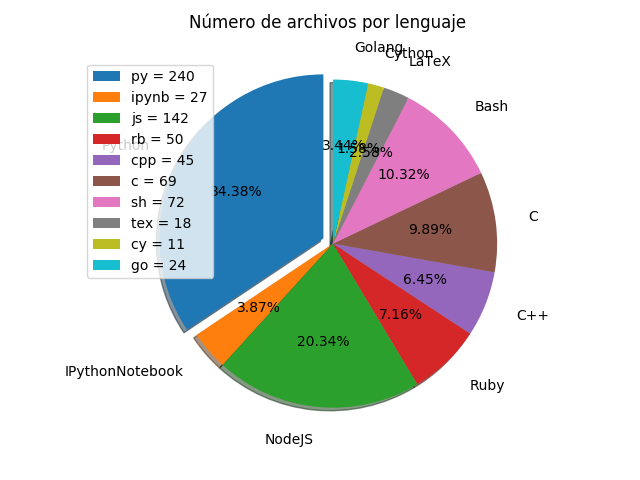
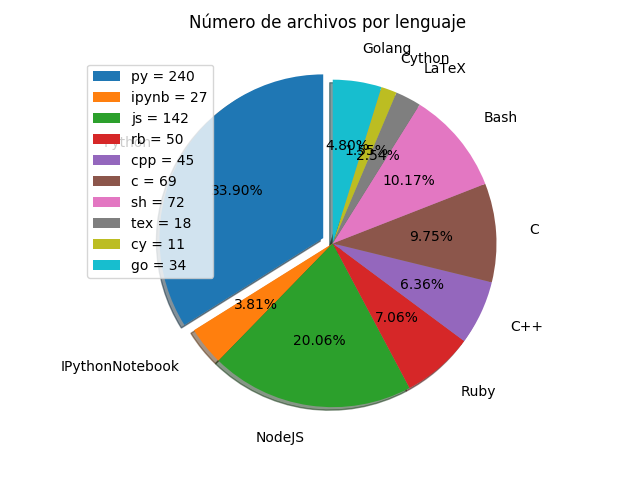
Set and get environment variables tutorial added for Golang.

diff --git a/backend/src/009-sistema_operativo/env_vars/environ_vars.go b/backend/src/009-sistema_operativo/env_vars/environ_vars.go
@@ -1,0 +1,22 @@
+package main
+
+import (
+   "fmt"
+   "os"
+   "strings"
+)
+
+func main() {
+    // Establecer una variable de entorno
+    os.Setenv("FOO", "hola")
+
+    // Obtener el valor de variables de entorno
+    fmt.Printf("FOO = '%s'\n", os.Getenv("FOO"))  // FOO = 'hola'
+    fmt.Printf("BAR = '%s'\n\n", os.Getenv("BAR"))  // BAR = ''
+
+    // Acceso a todas las variables de entorno
+    for _, variable := range os.Environ() {
+        pair := strings.Split(variable, "=")
+        fmt.Printf("%s = %s\n", pair[0], pair[1])
+    }
+}

diff --git a/backend/src/009-sistema_operativo/permisos/permisos.c b/backend/src/009-sistema_operativo/permisos/permisos.c
@@ -1,9 +1,7 @@
-// =======================================================================
 #include <stdio.h>
 
 /*                    MANEJO DE PERMISOS DE ARCHIVOS EN C               */
 
-// =======================================================================
 #ifdef __unix__
 
 #include <errno.h>

diff --git a/backend/src/tipos/README.md b/backend/src/tipos/README.md
@@ -1,8 +1,8 @@
 ## Tipos/estructuras de datos
 
-#### [Tipos por lenguaje](https://github.com/mondeja/fullstack/tree/master/backend/src/tipos/_resumen) ([c](https://github.com/mondeja/fullstack/tree/master/backend/src/tipos/_resumen/c), [cpp](https://github.com/mondeja/fullstack/tree/master/backend/src/tipos/_resumen/cpp), [go](https://github.com/mondeja/fullstack/tree/master/backend/src/tipos/_resumen/go))
+#### [Especificación por lenguaje](https://github.com/mondeja/fullstack/tree/master/backend/src/tipos/_resumen) ([c](https://github.com/mondeja/fullstack/tree/master/backend/src/tipos/_resumen/c), [cpp](https://github.com/mondeja/fullstack/tree/master/backend/src/tipos/_resumen/cpp), [go](https://github.com/mondeja/fullstack/tree/master/backend/src/tipos/_resumen/go))
 #### [Inspeccionar](https://github.com/mondeja/fullstack/tree/master/backend/src/tipos/inspect) (sh, py, go)
-#### [Conversión entre tipos](https://github.com/mondeja/fullstack/tree/master/backend/src/tipos/conversion) (c, go)
+#### [Convertir entre tipos](https://github.com/mondeja/fullstack/tree/master/backend/src/tipos/conversion) (c, go)
 
 _____________________
 
@@ -26,6 +26,7 @@ _____________________
     + [Map/Dict](https://github.com/mondeja/fullstack/tree/master/backend/src/tipos/arrays/asociativos/map_dict) (go, sh)
     + [Estructuras (struct, object...)](https://github.com/mondeja/fullstack/tree/master/backend/src/tipos/arrays/asociativos/struct) (c, sh, py, rb)
     + [Enumeraciones](https://github.com/mondeja/fullstack/tree/master/backend/src/tipos/arrays/asociativos/enum) (c)
+- [Canales](https://github.com/mondeja/fullstack/tree/master/backend/src/tipos/arrays/canales) (go)
 - [Listas enlazadas](https://github.com/mondeja/fullstack/tree/master/backend/src/tipos/arrays/linked_list) (c)
 - [Iteradores](https://github.com/mondeja/fullstack/tree/master/backend/src/tipos/arrays/iteradores) (py, cpp)
 - [Generadores](https://github.com/mondeja/fullstack/tree/master/backend/src/tipos/arrays/iteradores) (py)

diff --git a/backend/src/009-sistema_operativo/README.md b/backend/src/009-sistema_operativo/README.md
@@ -7,7 +7,7 @@
 - [Obtener la arquitectura](https://github.com/mondeja/fullstack/tree/master/backend/src/009-sistema_operativo/arch) (py, go, sh, bat)
 
 ### Configuración
-- [Variables de entorno](https://github.com/mondeja/fullstack/tree/master/backend/src/009-sistema_operativo/env_vars) (py, js, rb, c, cpp, sh, ipynb)
+- [Variables de entorno](https://github.com/mondeja/fullstack/tree/master/backend/src/009-sistema_operativo/env_vars) (py, js, go, rb, c, cpp, sh, ipynb)
 
 ____________________________________
 
